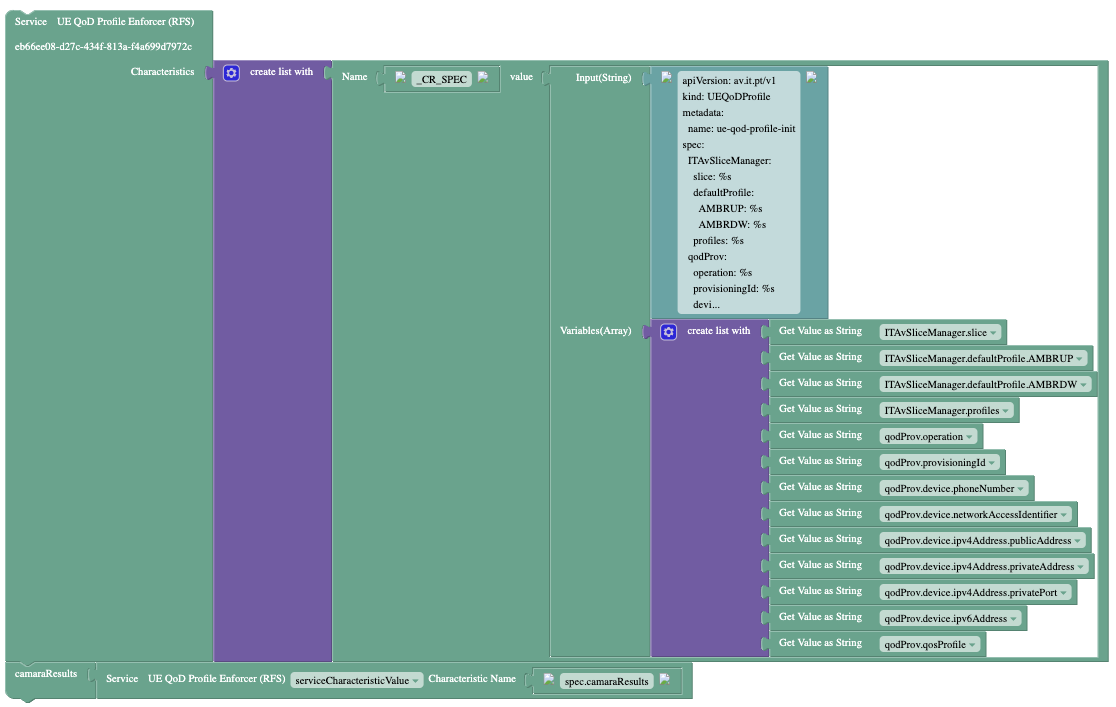
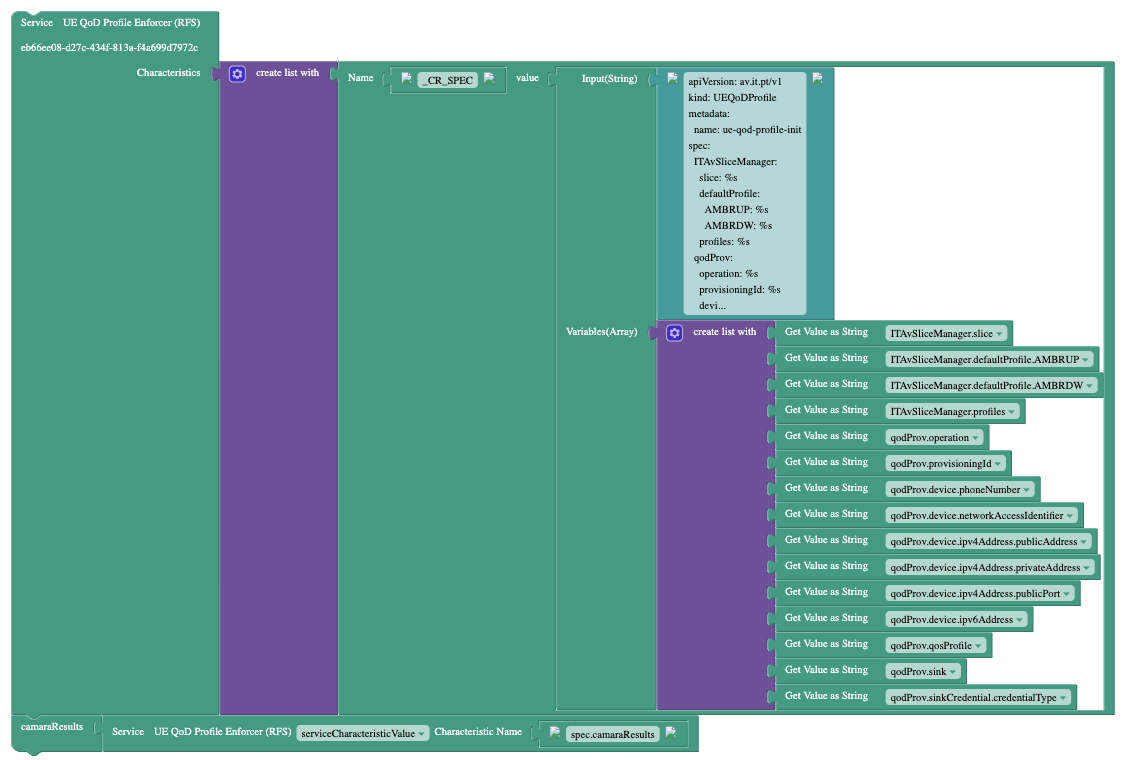
Updated UEQoDProfile Service Specification Characteristics to be compliant with CAMARA's QoD Provisioning OpenAPI Specification

diff --git a/UEQoDProfile/OSL/Rules/supervision.java b/UEQoDProfile/OSL/Rules/supervision.java
@@ -21,11 +21,14 @@ spec:
       ipv4Address:
         publicAddress: %s
         privateAddress: %s
-        privatePort: %s
+        publicPort: %s
       ipv6Address: %s
     qosProfile: %s
+    sink: %s
+    sinkCredential:
+        credentialType: %s
 """
-, getCharValAsString("ITAvSliceManager.slice"), getCharValAsString("ITAvSliceManager.defaultProfile.AMBRUP"), getCharValAsString("ITAvSliceManager.defaultProfile.AMBRDW"), getCharValAsString("ITAvSliceManager.profiles"), getCharValAsString("qodProv.operation"), getCharValAsString("qodProv.provisioningId"), getCharValAsString("qodProv.device.phoneNumber"), getCharValAsString("qodProv.device.networkAccessIdentifier"), getCharValAsString("qodProv.device.ipv4Address.publicAddress"), getCharValAsString("qodProv.device.ipv4Address.privateAddress"), getCharValAsString("qodProv.device.ipv4Address.privatePort"), getCharValAsString("qodProv.device.ipv6Address"), getCharValAsString("qodProv.qosProfile")));
+, getCharValAsString("ITAvSliceManager.slice"), getCharValAsString("ITAvSliceManager.defaultProfile.AMBRUP"), getCharValAsString("ITAvSliceManager.defaultProfile.AMBRDW"), getCharValAsString("ITAvSliceManager.profiles"), getCharValAsString("qodProv.operation"), getCharValAsString("qodProv.provisioningId"), getCharValAsString("qodProv.device.phoneNumber"), getCharValAsString("qodProv.device.networkAccessIdentifier"), getCharValAsString("qodProv.device.ipv4Address.publicAddress"), getCharValAsString("qodProv.device.ipv4Address.privateAddress"), getCharValAsString("qodProv.device.ipv4Address.publicPort"), getCharValAsString("qodProv.device.ipv6Address"), getCharValAsString("qodProv.qosProfile"), getCharValAsString("qodProv.sink"), getCharValAsString("qodProv.sinkCredential.credentialType")));
 setServiceRefCharacteristicsValues("UE QoD Profile Enforcer (RFS)", charvals);
 }
 setCharValFromStringType("camaraResults", getServiceRefPropValue("UE QoD Profile Enforcer (RFS)", "serviceCharacteristicValue", "spec.camaraResults"));
